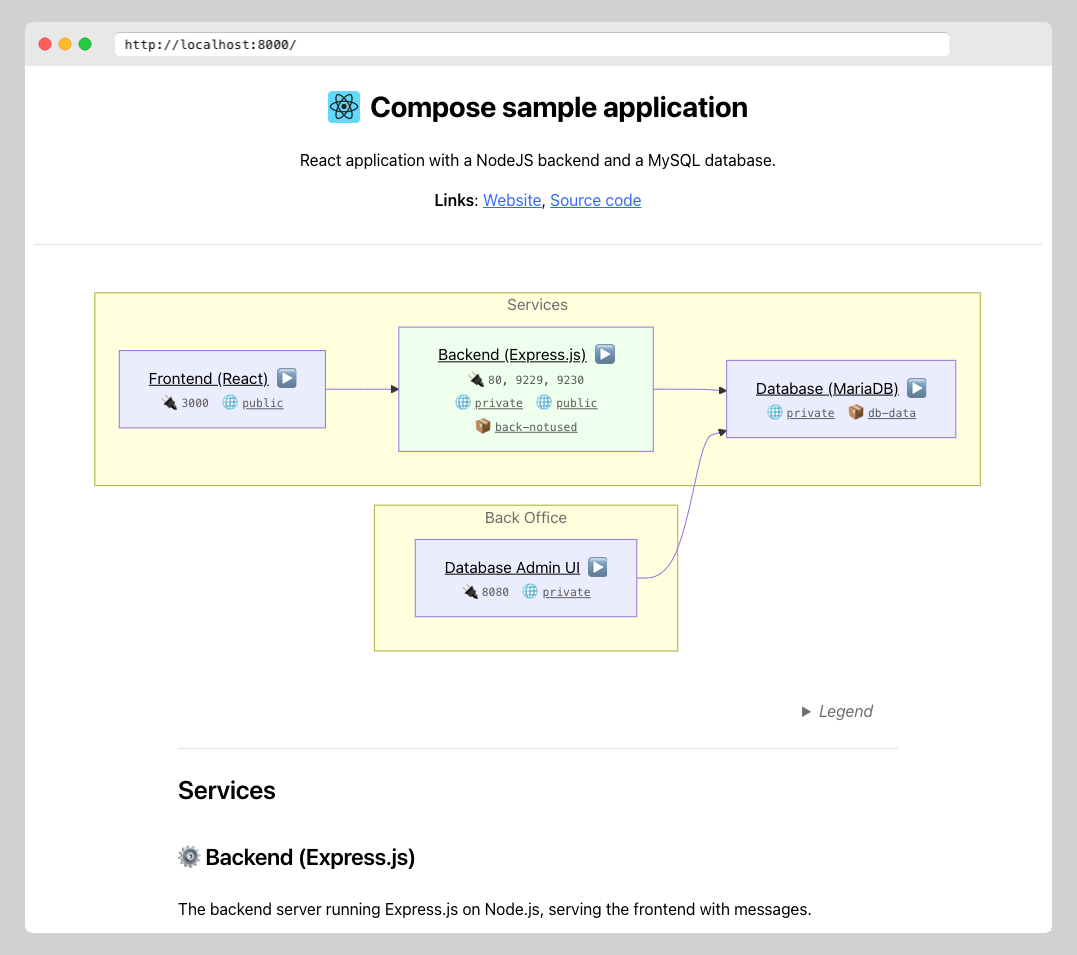
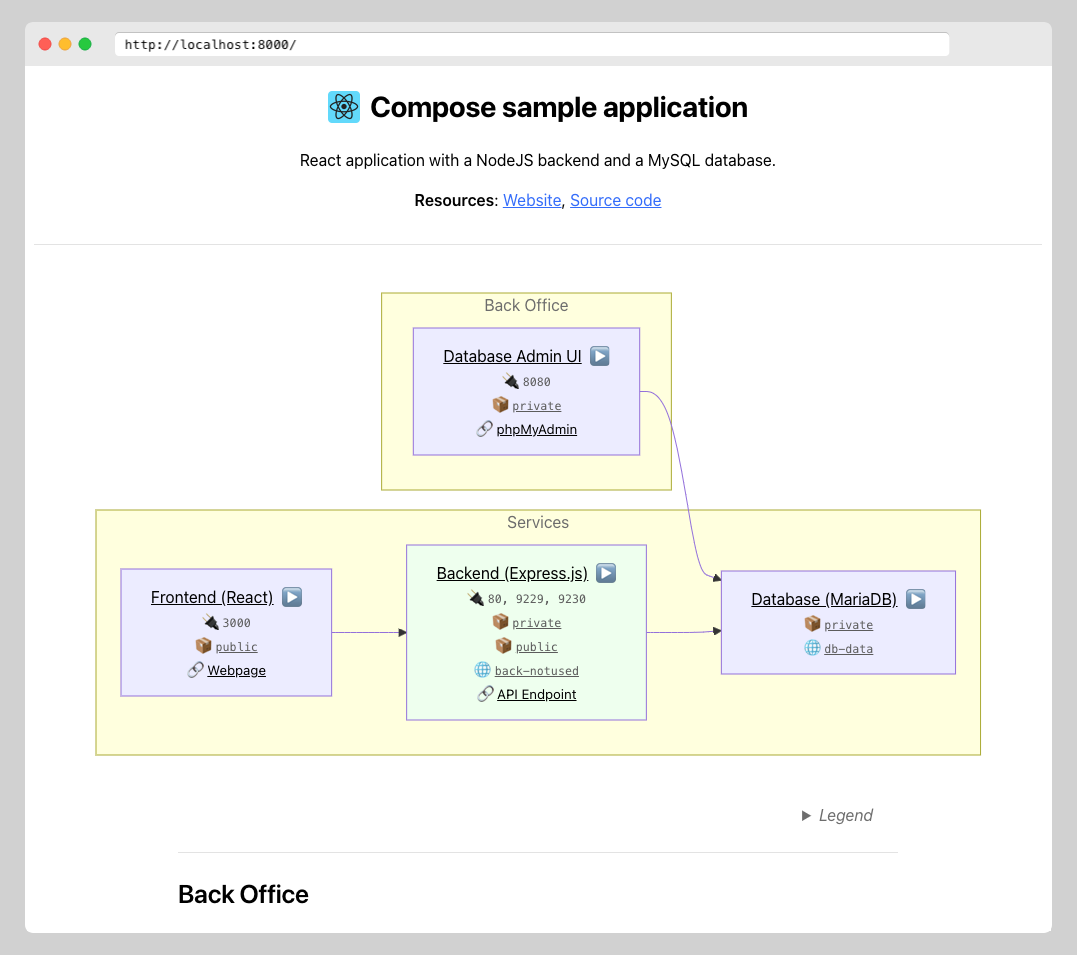
Update example.

diff --git a/examples/react-express-mysql/laebel-output.html b/examples/react-express-mysql/laebel-output.html
@@ -17,7 +17,7 @@
         <p>React application with a NodeJS backend and a MySQL database.</p>
         
             <p>
-                <strong>Links</strong>:
+                <strong>Resources</strong>:
                 <a href="https://docs.docker.com/compose/support-and-feedback/samples-for-compose/">Website</a>,
                 <a href="https://github.com/docker/awesome-compose/tree/master/react-express-mysql">Source code</a>
             </p>
@@ -41,7 +41,7 @@
         
             <section id="graph" hx-trigger="sse:reload" hx-get="/graph.mmd" hx-swap="none" hx-target=".mermaid">
                 
-<pre class="mermaid" data-processed="true"><svg aria-roledescription="flowchart-v2" role="graphics-document document" viewBox="0 0 923.4000244140625 381" style="max-width: 923.4000244140625px;" class="flowchart" xlink="http://www.w3.org/1999/xlink" xmlns="http://www.w3.org/2000/svg" width="100%" id="mermaid-1730933843128"><style>#mermaid-1730933843128{font-family:system-ui,sans-serif;font-size:16px;fill:#333;}#mermaid-1730933843128 .error-icon{fill:#552222;}#mermaid-1730933843128 .error-text{fill:#552222;stroke:#552222;}#mermaid-1730933843128 .edge-thickness-normal{stroke-width:1px;}#mermaid-1730933843128 .edge-thickness-thick{stroke-width:3.5px;}#mermaid-1730933843128 .edge-pattern-solid{stroke-dasharray:0;}#mermaid-1730933843128 .edge-thickness-invisible{stroke-width:0;fill:none;}#mermaid-1730933843128 .edge-pattern-dashed{stroke-dasharray:3;}#mermaid-1730933843128 .edge-pattern-dotted{stroke-dasharray:2;}#mermaid-1730933843128 .marker{fill:#333333;stroke:#333333;}#mermaid-1730933843128 .marker.cross{stroke:#333333;}#mermaid-1730933843128 svg{font-family:system-ui,sans-serif;font-size:16px;}#mermaid-1730933843128 p{margin:0;}#mermaid-1730933843128 .label{font-family:system-ui,sans-serif;color:#333;}#mermaid-1730933843128 .cluster-label text{fill:#333;}#mermaid-1730933843128 .cluster-label span{color:#333;}#mermaid-1730933843128 .cluster-label span p{background-color:transparent;}#mermaid-1730933843128 .label text,#mermaid-1730933843128 span{fill:#333;color:#333;}#mermaid-1730933843128 .node rect,#mermaid-1730933843128 .node circle,#mermaid-1730933843128 .node ellipse,#mermaid-1730933843128 .node polygon,#mermaid-1730933843128 .node path{fill:#ECECFF;stroke:#9370DB;stroke-width:1px;}#mermaid-1730933843128 .rough-node .label text,#mermaid-1730933843128 .node .label text,#mermaid-1730933843128 .image-shape .label,#mermaid-1730933843128 .icon-shape .label{text-anchor:middle;}#mermaid-1730933843128 .node .katex path{fill:#000;stroke:#000;stroke-width:1px;}#mermaid-1730933843128 .rough-node .label,#mermaid-1730933843128 .node .label,#mermaid-1730933843128 .image-shape .label,#mermaid-1730933843128 .icon-shape .label{text-align:center;}#mermaid-1730933843128 .node.clickable{cursor:pointer;}#mermaid-1730933843128 .root .anchor path{fill:#333333!important;stroke-width:0;stroke:#333333;}#mermaid-1730933843128 .arrowheadPath{fill:#333333;}#mermaid-1730933843128 .edgePath .path{stroke:#333333;stroke-width:2.0px;}#mermaid-1730933843128 .flowchart-link{stroke:#333333;fill:none;}#mermaid-1730933843128 .edgeLabel{background-color:rgba(232,232,232, 0.8);text-align:center;}#mermaid-1730933843128 .edgeLabel p{background-color:rgba(232,232,232, 0.8);}#mermaid-1730933843128 .edgeLabel rect{opacity:0.5;background-color:rgba(232,232,232, 0.8);fill:rgba(232,232,232, 0.8);}#mermaid-1730933843128 .labelBkg{background-color:rgba(232, 232, 232, 0.5);}#mermaid-1730933843128 .cluster rect{fill:#ffffde;stroke:#aaaa33;stroke-width:1px;}#mermaid-1730933843128 .cluster text{fill:#333;}#mermaid-1730933843128 .cluster span{color:#333;}#mermaid-1730933843128 div.mermaidTooltip{position:absolute;text-align:center;max-width:200px;padding:2px;font-family:system-ui,sans-serif;font-size:12px;background:hsl(80, 100%, 96.2745098039%);border:1px solid #aaaa33;border-radius:2px;pointer-events:none;z-index:100;}#mermaid-1730933843128 .flowchartTitleText{text-anchor:middle;font-size:18px;fill:#333;}#mermaid-1730933843128 rect.text{fill:none;stroke-width:0;}#mermaid-1730933843128 .icon-shape,#mermaid-1730933843128 .image-shape{background-color:rgba(232,232,232, 0.8);text-align:center;}#mermaid-1730933843128 .icon-shape p,#mermaid-1730933843128 .image-shape p{background-color:rgba(232,232,232, 0.8);padding:2px;}#mermaid-1730933843128 .icon-shape rect,#mermaid-1730933843128 .image-shape rect{opacity:0.5;background-color:rgba(232,232,232, 0.8);fill:rgba(232,232,232, 0.8);}#mermaid-1730933843128 :root{--mermaid-font-family:system-ui,sans-serif;}</style><g><marker orient="auto" markerHeight="8" markerWidth="8" markerUnits="userSpaceOnUse" refY="5" refX="5" viewBox="0 0 10 10" class="marker flowchart-v2" id="mermaid-1730933843128_flowchart-v2-pointEnd"><path style="stroke-width: 1px; stroke-dasharray: 1px, 0px;" class="arrowMarkerPath" d="M 0 0 L 10 5 L 0 10 z"></path></marker><marker orient="auto" markerHeight="8" markerWidth="8" markerUnits="userSpaceOnUse" refY="5" refX="4.5" viewBox="0 0 10 10" class="marker flowchart-v2" id="mermaid-1730933843128_flowchart-v2-pointStart"><path style="stroke-width: 1px; stroke-dasharray: 1px, 0px;" class="arrowMarkerPath" d="M 0 5 L 10 10 L 10 0 z"></path></marker><marker orient="auto" markerHeight="11" markerWidth="11" markerUnits="userSpaceOnUse" refY="5" refX="11" viewBox="0 0 10 10" class="marker flowchart-v2" id="mermaid-1730933843128_flowchart-v2-circleEnd"><circle style="stroke-width: 1px; stroke-dasharray: 1px, 0px;" class="arrowMarkerPath" r="5" cy="5" cx="5"></circle></marker><marker orient="auto" markerHeight="11" markerWidth="11" markerUnits="userSpaceOnUse" refY="5" refX="-1" viewBox="0 0 10 10" class="marker flowchart-v2" id="mermaid-1730933843128_flowchart-v2-circleStart"><circle style="stroke-width: 1px; stroke-dasharray: 1px, 0px;" class="arrowMarkerPath" r="5" cy="5" cx="5"></circle></marker><marker orient="auto" markerHeight="11" markerWidth="11" markerUnits="userSpaceOnUse" refY="5.2" refX="12" viewBox="0 0 11 11" class="marker cross flowchart-v2" id="mermaid-1730933843128_flowchart-v2-crossEnd"><path style="stroke-width: 2px; stroke-dasharray: 1px, 0px;" class="arrowMarkerPath" d="M 1,1 l 9,9 M 10,1 l -9,9"></path></marker><marker orient="auto" markerHeight="11" markerWidth="11" markerUnits="userSpaceOnUse" refY="5.2" refX="-1" viewBox="0 0 11 11" class="marker cross flowchart-v2" id="mermaid-1730933843128_flowchart-v2-crossStart"><path style="stroke-width: 2px; stroke-dasharray: 1px, 0px;" class="arrowMarkerPath" d="M 1,1 l 9,9 M 10,1 l -9,9"></path></marker><g class="root"><g class="clusters"><g data-look="classic" id="subGraph1" class="cluster"><rect height="148.5" width="310" y="224.5" x="294.90000915527344" style=""></rect><g transform="translate(407.7666702270508, 224.5)" class="cluster-label"><foreignObject height="24" width="84.26667785644531"><div xmlns="http://www.w3.org/1999/xhtml" style="display: table-cell; white-space: nowrap; line-height: 1.5; max-width: 200px; text-align: center;"><span class="nodeLabel"><p>Back Office</p></span></div></foreignObject></g></g><g data-look="classic" id="subGraph0" class="cluster"><rect height="196.5" width="907.4000091552734" y="8" x="8" style=""></rect><g transform="translate(430.6750030517578, 8)" class="cluster-label"><foreignObject height="24" width="62.05000305175781"><div xmlns="http://www.w3.org/1999/xhtml" style="display: table-cell; white-space: nowrap; line-height: 1.5; max-width: 200px; text-align: center;"><span class="nodeLabel"><p>Services</p></span></div></foreignObject></g></g></g><g class="edgePaths"><path marker-end="url(#mermaid-1730933843128_flowchart-v2-pointEnd)" style="" class="edge-thickness-normal edge-pattern-solid edge-thickness-normal edge-pattern-solid flowchart-link" id="L_backend_db_0" d="M579.9,106.25L584.067,106.25C588.233,106.25,596.567,106.25,604.9,106.25C613.233,106.25,621.567,106.25,627.817,106.396C634.067,106.542,638.233,106.834,641.735,107.079C645.237,107.324,648.073,107.523,649.491,107.622L650.91,107.722"></path><path marker-end="url(#mermaid-1730933843128_flowchart-v2-pointEnd)" style="" class="edge-thickness-normal edge-pattern-solid edge-thickness-normal edge-pattern-solid flowchart-link" id="L_frontend_backend_1" d="M244.9,106.25L249.067,106.25C253.233,106.25,261.567,106.25,269.9,106.25C278.233,106.25,286.567,106.25,292.817,106.25C299.067,106.25,303.233,106.25,306.733,106.25C310.233,106.25,313.067,106.25,314.483,106.25L315.9,106.25"></path><path marker-end="url(#mermaid-1730933843128_flowchart-v2-pointEnd)" style="" class="edge-thickness-normal edge-pattern-solid edge-thickness-normal edge-pattern-solid flowchart-link" id="L_phpMyAdmin_db_2" d="M563.892,298.75L570.726,298.75C577.561,298.75,591.231,298.75,602.232,274.854C613.233,250.958,621.567,203.167,627.817,178.7C634.067,154.233,638.233,153.091,641.757,152.125C645.281,151.159,648.162,150.37,649.602,149.975L651.042,149.58"></path></g><g class="edgeLabels"><g class="edgeLabel"><g transform="translate(0, 0)" class="label"><foreignObject height="0" width="0"><div class="labelBkg" xmlns="http://www.w3.org/1999/xhtml" style="display: table-cell; white-space: nowrap; line-height: 1.5; max-width: 200px; text-align: center;"><span class="edgeLabel"></span></div></foreignObject></g></g><g class="edgeLabel"><g transform="translate(0, 0)" class="label"><foreignObject height="0" width="0"><div class="labelBkg" xmlns="http://www.w3.org/1999/xhtml" style="display: table-cell; white-space: nowrap; line-height: 1.5; max-width: 200px; text-align: center;"><span class="edgeLabel"></span></div></foreignObject></g></g><g class="edgeLabel"><g transform="translate(0, 0)" class="label"><foreignObject height="0" width="0"><div class="labelBkg" xmlns="http://www.w3.org/1999/xhtml" style="display: table-cell; white-space: nowrap; line-height: 1.5; max-width: 200px; text-align: center;"><span class="edgeLabel"></span></div></foreignObject></g></g></g><g class="nodes"><g transform="translate(449.90000915527344, 106.25)" id="flowchart-backend-0" class="node default"><rect height="126.5" width="260" y="-63.25" x="-130" style="" class="basic label-container"></rect><g transform="translate(-100, -48.25)" style="" class="label"><rect></rect><foreignObject height="96.5" width="200"><div xmlns="http://www.w3.org/1999/xhtml" style="display: table; white-space: break-spaces; line-height: 1.5; max-width: 200px; text-align: center; width: 200px;"><span class="nodeLabel"><p><a href="#backend-service">Backend (Express.js)</a><span title="The service is running and is healthy. 😀" class="icon healthy">▶</span></p><div class="details"><small class="ports"><code>80, 9229, 9230</code></small><small class="network"><a href="#private-network"><code>private</code></a></small><small class="network"><a href="#public-network"><code>public</code></a></small><small class="volume"><a href="#back-notused-volume"><code>back-notused</code></a></small></div><p></p></span></div></foreignObject></g></g><g transform="translate(772.6500091552734, 116.25)" id="flowchart-db-1" class="node default"><rect height="78.5" width="235.5" y="-39.25" x="-117.75" style="" class="basic label-container"></rect><g transform="translate(-87.75, -24.25)" style="" class="label"><rect></rect><foreignObject height="48.5" width="175.5"><div xmlns="http://www.w3.org/1999/xhtml" style="display: table-cell; white-space: nowrap; line-height: 1.5; max-width: 200px; text-align: center;"><span class="nodeLabel"><p><a href="#db-service">Database (MariaDB)</a><span title="The service is running, but has no health information." class="icon">▶</span></p><div class="details"><small class="network"><a href="#private-network"><code>private</code></a></small><small class="volume"><a href="#db-data-volume"><code>db-data</code></a></small></div><p></p></span></div></foreignObject></g></g><g transform="translate(138.95000457763672, 106.25)" id="flowchart-frontend-2" class="node default"><rect height="78.5" width="211.90000915527344" y="-39.25" x="-105.95000457763672" style="" class="basic label-container"></rect><g transform="translate(-75.95000457763672, -24.25)" style="" class="label"><rect></rect><foreignObject height="48.5" width="151.90000915527344"><div xmlns="http://www.w3.org/1999/xhtml" style="display: table-cell; white-space: nowrap; line-height: 1.5; max-width: 200px; text-align: center;"><span class="nodeLabel"><p><a href="#frontend-service">Frontend (React)</a><span title="The service is running, but has no health information." class="icon">▶</span></p><div class="details"><small class="ports"><code>3000</code></small><small class="network"><a href="#public-network"><code>public</code></a></small></div><p></p></span></div></foreignObject></g></g><g transform="translate(449.90000915527344, 298.75)" id="flowchart-phpMyAdmin-3" class="node default"><rect height="78.5" width="227.98333740234375" y="-39.25" x="-113.99166870117188" style="" class="basic label-container"></rect><g transform="translate(-83.99166870117188, -24.25)" style="" class="label"><rect></rect><foreignObject height="48.5" width="167.98333740234375"><div xmlns="http://www.w3.org/1999/xhtml" style="display: table-cell; white-space: nowrap; line-height: 1.5; max-width: 200px; text-align: center;"><span class="nodeLabel"><p><a href="#phpMyAdmin-service">Database Admin UI</a><span title="The service is running, but has no health information." class="icon">▶</span></p><div class="details"><small class="ports"><code>8080</code></small><small class="network"><a href="#private-network"><code>private</code></a></small></div><p></p></span></div></foreignObject></g></g></g></g></g></svg></pre>
+<pre class="mermaid" data-processed="true"><svg aria-roledescription="flowchart-v2" role="graphics-document document" viewBox="0 0 904.3833618164062 477" style="max-width: 904.3833618164062px;" class="flowchart" xlink="http://www.w3.org/1999/xlink" xmlns="http://www.w3.org/2000/svg" width="100%" id="mermaid-1740960273626"><style>#mermaid-1740960273626{font-family:system-ui,sans-serif;font-size:16px;fill:#333;}#mermaid-1740960273626 .error-icon{fill:#552222;}#mermaid-1740960273626 .error-text{fill:#552222;stroke:#552222;}#mermaid-1740960273626 .edge-thickness-normal{stroke-width:1px;}#mermaid-1740960273626 .edge-thickness-thick{stroke-width:3.5px;}#mermaid-1740960273626 .edge-pattern-solid{stroke-dasharray:0;}#mermaid-1740960273626 .edge-thickness-invisible{stroke-width:0;fill:none;}#mermaid-1740960273626 .edge-pattern-dashed{stroke-dasharray:3;}#mermaid-1740960273626 .edge-pattern-dotted{stroke-dasharray:2;}#mermaid-1740960273626 .marker{fill:#333333;stroke:#333333;}#mermaid-1740960273626 .marker.cross{stroke:#333333;}#mermaid-1740960273626 svg{font-family:system-ui,sans-serif;font-size:16px;}#mermaid-1740960273626 p{margin:0;}#mermaid-1740960273626 .label{font-family:system-ui,sans-serif;color:#333;}#mermaid-1740960273626 .cluster-label text{fill:#333;}#mermaid-1740960273626 .cluster-label span{color:#333;}#mermaid-1740960273626 .cluster-label span p{background-color:transparent;}#mermaid-1740960273626 .label text,#mermaid-1740960273626 span{fill:#333;color:#333;}#mermaid-1740960273626 .node rect,#mermaid-1740960273626 .node circle,#mermaid-1740960273626 .node ellipse,#mermaid-1740960273626 .node polygon,#mermaid-1740960273626 .node path{fill:#ECECFF;stroke:#9370DB;stroke-width:1px;}#mermaid-1740960273626 .rough-node .label text,#mermaid-1740960273626 .node .label text,#mermaid-1740960273626 .image-shape .label,#mermaid-1740960273626 .icon-shape .label{text-anchor:middle;}#mermaid-1740960273626 .node .katex path{fill:#000;stroke:#000;stroke-width:1px;}#mermaid-1740960273626 .rough-node .label,#mermaid-1740960273626 .node .label,#mermaid-1740960273626 .image-shape .label,#mermaid-1740960273626 .icon-shape .label{text-align:center;}#mermaid-1740960273626 .node.clickable{cursor:pointer;}#mermaid-1740960273626 .root .anchor path{fill:#333333!important;stroke-width:0;stroke:#333333;}#mermaid-1740960273626 .arrowheadPath{fill:#333333;}#mermaid-1740960273626 .edgePath .path{stroke:#333333;stroke-width:2.0px;}#mermaid-1740960273626 .flowchart-link{stroke:#333333;fill:none;}#mermaid-1740960273626 .edgeLabel{background-color:rgba(232,232,232, 0.8);text-align:center;}#mermaid-1740960273626 .edgeLabel p{background-color:rgba(232,232,232, 0.8);}#mermaid-1740960273626 .edgeLabel rect{opacity:0.5;background-color:rgba(232,232,232, 0.8);fill:rgba(232,232,232, 0.8);}#mermaid-1740960273626 .labelBkg{background-color:rgba(232, 232, 232, 0.5);}#mermaid-1740960273626 .cluster rect{fill:#ffffde;stroke:#aaaa33;stroke-width:1px;}#mermaid-1740960273626 .cluster text{fill:#333;}#mermaid-1740960273626 .cluster span{color:#333;}#mermaid-1740960273626 div.mermaidTooltip{position:absolute;text-align:center;max-width:200px;padding:2px;font-family:system-ui,sans-serif;font-size:12px;background:hsl(80, 100%, 96.2745098039%);border:1px solid #aaaa33;border-radius:2px;pointer-events:none;z-index:100;}#mermaid-1740960273626 .flowchartTitleText{text-anchor:middle;font-size:18px;fill:#333;}#mermaid-1740960273626 rect.text{fill:none;stroke-width:0;}#mermaid-1740960273626 .icon-shape,#mermaid-1740960273626 .image-shape{background-color:rgba(232,232,232, 0.8);text-align:center;}#mermaid-1740960273626 .icon-shape p,#mermaid-1740960273626 .image-shape p{background-color:rgba(232,232,232, 0.8);padding:2px;}#mermaid-1740960273626 .icon-shape rect,#mermaid-1740960273626 .image-shape rect{opacity:0.5;background-color:rgba(232,232,232, 0.8);fill:rgba(232,232,232, 0.8);}#mermaid-1740960273626 :root{--mermaid-font-family:system-ui,sans-serif;}</style><g><marker orient="auto" markerHeight="8" markerWidth="8" markerUnits="userSpaceOnUse" refY="5" refX="5" viewBox="0 0 10 10" class="marker flowchart-v2" id="mermaid-1740960273626_flowchart-v2-pointEnd"><path style="stroke-width: 1px; stroke-dasharray: 1px, 0px;" class="arrowMarkerPath" d="M 0 0 L 10 5 L 0 10 z"></path></marker><marker orient="auto" markerHeight="8" markerWidth="8" markerUnits="userSpaceOnUse" refY="5" refX="4.5" viewBox="0 0 10 10" class="marker flowchart-v2" id="mermaid-1740960273626_flowchart-v2-pointStart"><path style="stroke-width: 1px; stroke-dasharray: 1px, 0px;" class="arrowMarkerPath" d="M 0 5 L 10 10 L 10 0 z"></path></marker><marker orient="auto" markerHeight="11" markerWidth="11" markerUnits="userSpaceOnUse" refY="5" refX="11" viewBox="0 0 10 10" class="marker flowchart-v2" id="mermaid-1740960273626_flowchart-v2-circleEnd"><circle style="stroke-width: 1px; stroke-dasharray: 1px, 0px;" class="arrowMarkerPath" r="5" cy="5" cx="5"></circle></marker><marker orient="auto" markerHeight="11" markerWidth="11" markerUnits="userSpaceOnUse" refY="5" refX="-1" viewBox="0 0 10 10" class="marker flowchart-v2" id="mermaid-1740960273626_flowchart-v2-circleStart"><circle style="stroke-width: 1px; stroke-dasharray: 1px, 0px;" class="arrowMarkerPath" r="5" cy="5" cx="5"></circle></marker><marker orient="auto" markerHeight="11" markerWidth="11" markerUnits="userSpaceOnUse" refY="5.2" refX="12" viewBox="0 0 11 11" class="marker cross flowchart-v2" id="mermaid-1740960273626_flowchart-v2-crossEnd"><path style="stroke-width: 2px; stroke-dasharray: 1px, 0px;" class="arrowMarkerPath" d="M 1,1 l 9,9 M 10,1 l -9,9"></path></marker><marker orient="auto" markerHeight="11" markerWidth="11" markerUnits="userSpaceOnUse" refY="5.2" refX="-1" viewBox="0 0 11 11" class="marker cross flowchart-v2" id="mermaid-1740960273626_flowchart-v2-crossStart"><path style="stroke-width: 2px; stroke-dasharray: 1px, 0px;" class="arrowMarkerPath" d="M 1,1 l 9,9 M 10,1 l -9,9"></path></marker><g class="root"><g class="clusters"><g data-look="classic" id="Services" class="cluster"><rect height="244.5" width="888.3833465576172" y="224.5" x="8" style=""></rect><g transform="translate(421.1666717529297, 224.5)" class="cluster-label"><foreignObject height="24" width="62.05000305175781"><div xmlns="http://www.w3.org/1999/xhtml" style="display: table-cell; white-space: nowrap; line-height: 1.5; max-width: 200px; text-align: center;"><span class="nodeLabel"><p>Services</p></span></div></foreignObject></g></g><g data-look="classic" id="subGraph0" class="cluster"><rect height="196.5" width="290.98333740234375" y="8" x="294.90000915527344" style=""></rect><g transform="translate(398.2583465576172, 8)" class="cluster-label"><foreignObject height="24" width="84.26666259765625"><div xmlns="http://www.w3.org/1999/xhtml" style="display: table-cell; white-space: nowrap; line-height: 1.5; max-width: 200px; text-align: center;"><span class="nodeLabel"><p>Back Office</p></span></div></foreignObject></g></g></g><g class="edgePaths"><path marker-end="url(#mermaid-1740960273626_flowchart-v2-pointEnd)" style="" class="edge-thickness-normal edge-pattern-solid edge-thickness-normal edge-pattern-solid flowchart-link" id="L_phpMyAdmin_db_0" d="M554.383,106.25L559.633,106.25C564.883,106.25,575.383,106.25,584.8,136.146C594.217,166.042,602.55,225.833,608.8,256.475C615.05,287.117,619.217,288.61,622.756,289.877C626.295,291.144,629.206,292.187,630.662,292.709L632.118,293.23"></path><path marker-end="url(#mermaid-1740960273626_flowchart-v2-pointEnd)" style="" class="edge-thickness-normal edge-pattern-solid edge-thickness-normal edge-pattern-solid flowchart-link" id="L_backend_db_1" d="M560.883,346.75L565.05,346.75C569.217,346.75,577.55,346.75,585.883,346.75C594.217,346.75,602.55,346.75,608.8,346.604C615.05,346.458,619.217,346.166,622.718,345.921C626.22,345.676,629.057,345.477,630.475,345.378L631.893,345.278"></path><path marker-end="url(#mermaid-1740960273626_flowchart-v2-pointEnd)" style="" class="edge-thickness-normal edge-pattern-solid edge-thickness-normal edge-pattern-solid flowchart-link" id="L_frontend_backend_2" d="M244.9,346.75L249.067,346.75C253.233,346.75,261.567,346.75,269.9,346.75C278.233,346.75,286.567,346.75,292.817,346.75C299.067,346.75,303.233,346.75,306.733,346.75C310.233,346.75,313.067,346.75,314.483,346.75L315.9,346.75"></path></g><g class="edgeLabels"><g class="edgeLabel"><g transform="translate(0, 0)" class="label"><foreignObject height="0" width="0"><div class="labelBkg" xmlns="http://www.w3.org/1999/xhtml" style="display: table-cell; white-space: nowrap; line-height: 1.5; max-width: 200px; text-align: center;"><span class="edgeLabel"></span></div></foreignObject></g></g><g class="edgeLabel"><g transform="translate(0, 0)" class="label"><foreignObject height="0" width="0"><div class="labelBkg" xmlns="http://www.w3.org/1999/xhtml" style="display: table-cell; white-space: nowrap; line-height: 1.5; max-width: 200px; text-align: center;"><span class="edgeLabel"></span></div></foreignObject></g></g><g class="edgeLabel"><g transform="translate(0, 0)" class="label"><foreignObject height="0" width="0"><div class="labelBkg" xmlns="http://www.w3.org/1999/xhtml" style="display: table-cell; white-space: nowrap; line-height: 1.5; max-width: 200px; text-align: center;"><span class="edgeLabel"></span></div></foreignObject></g></g></g><g class="nodes"><g transform="translate(440.3916778564453, 106.25)" id="flowchart-phpMyAdmin-0" class="node default"><rect height="126.5" width="227.98333740234375" y="-63.25" x="-113.99166870117188" style="" class="basic label-container"></rect><g transform="translate(-83.99166870117188, -48.25)" style="" class="label"><rect></rect><foreignObject height="96.5" width="167.98333740234375"><div xmlns="http://www.w3.org/1999/xhtml" style="display: table-cell; white-space: nowrap; line-height: 1.5; max-width: 200px; text-align: center;"><span class="nodeLabel"><p><a href="#phpMyAdmin-service">Database Admin UI</a><span title="The service is running, but has no health information." class="icon">▶</span></p><div class="details"><small title="Ports exposed by the service" class="ports">🔌 <code>8080</code></small><br><small title="Networks used by the service" class="network">📦 <a href="#private-network"><code>private</code></a></small><br><small title="Links to other services" class="link">🔗 <a title="" href="http://localhost:8080/">phpMyAdmin</a></small><br></div><p></p></span></div></foreignObject></g></g><g transform="translate(440.3916778564453, 346.75)" id="flowchart-backend-1" class="node default"><rect height="174.5" width="240.98333740234375" y="-87.25" x="-120.49166870117188" style="" class="basic label-container"></rect><g transform="translate(-90.49166870117188, -72.25)" style="" class="label"><rect></rect><foreignObject height="144.5" width="180.98333740234375"><div xmlns="http://www.w3.org/1999/xhtml" style="display: table-cell; white-space: nowrap; line-height: 1.5; max-width: 200px; text-align: center;"><span class="nodeLabel"><p><a href="#backend-service">Backend (Express.js)</a><span title="The service is running and is healthy. 😀" class="icon healthy">▶</span></p><div class="details"><small title="Ports exposed by the service" class="ports">🔌 <code>80, 9229, 9230</code></small><br><small title="Networks used by the service" class="network">📦 <a href="#private-network"><code>private</code></a></small><br><small title="Networks used by the service" class="network">📦 <a href="#public-network"><code>public</code></a></small><br><small title="Volumes used by the service" class="volume">🌐 <a href="#back-notused-volume"><code>back-notused</code></a></small><br><small title="Links to other services" class="link">🔗 <a title="" href="http://localhost/">API Endpoint</a></small><br></div><p></p></span></div></foreignObject></g></g><g transform="translate(753.6333465576172, 336.75)" id="flowchart-db-2" class="node default"><rect height="102.5" width="235.5" y="-51.25" x="-117.75" style="" class="basic label-container"></rect><g transform="translate(-87.75, -36.25)" style="" class="label"><rect></rect><foreignObject height="72.5" width="175.5"><div xmlns="http://www.w3.org/1999/xhtml" style="display: table-cell; white-space: nowrap; line-height: 1.5; max-width: 200px; text-align: center;"><span class="nodeLabel"><p><a href="#db-service">Database (MariaDB)</a><span title="The service is running, but has no health information." class="icon">▶</span></p><div class="details"><small title="Networks used by the service" class="network">📦 <a href="#private-network"><code>private</code></a></small><br><small title="Volumes used by the service" class="volume">🌐 <a href="#db-data-volume"><code>db-data</code></a></small><br></div><p></p></span></div></foreignObject></g></g><g transform="translate(138.95000457763672, 346.75)" id="flowchart-frontend-3" class="node default"><rect height="126.5" width="211.90000915527344" y="-63.25" x="-105.95000457763672" style="" class="basic label-container"></rect><g transform="translate(-75.95000457763672, -48.25)" style="" class="label"><rect></rect><foreignObject height="96.5" width="151.90000915527344"><div xmlns="http://www.w3.org/1999/xhtml" style="display: table-cell; white-space: nowrap; line-height: 1.5; max-width: 200px; text-align: center;"><span class="nodeLabel"><p><a href="#frontend-service">Frontend (React)</a><span title="The service is running, but has no health information." class="icon">▶</span></p><div class="details"><small title="Ports exposed by the service" class="ports">🔌 <code>3000</code></small><br><small title="Networks used by the service" class="network">📦 <a href="#public-network"><code>public</code></a></small><br><small title="Links to other services" class="link">🔗 <a title="" href="http://localhost:3000/">Webpage</a></small><br></div><p></p></span></div></foreignObject></g></g></g></g></g></svg></pre>
 
 
 
@@ -87,7 +87,88 @@
     
         
             <section class="group">
-                <h2> Services</h2>
+                <h2>Back Office</h2>
+                
+    <section id="phpMyAdmin-service" class="service" hx-trigger="sse:status:phpMyAdmin" hx-get="/service?name=phpMyAdmin">
+        <h3 class="title">Database Admin UI</h3>
+        <p class="description">phpMyAdmin is a web-based database management tool for MariaDB.</p>
+        <ul>
+            
+            <li class="name"><strong>Name</strong>: <code>phpMyAdmin</code> 
+<span class="clipboard" onclick="copyPreviousText(this)">📋</span>
+
+            </li><li class="image"><strong>Image</strong>: <code>phpmyadmin/phpmyadmin</code> 
+<span class="clipboard" onclick="copyPreviousText(this)">📋</span>
+</li>
+            <li class="status"><strong>Status</strong>: 
+<span class="status">
+<span class="icon" title="The service is running, but has no health information.">▶</span>
+<span class="details">
+
+<span class="running">1 running</span>
+</span>
+</span>
+</li>
+            
+                <li class="resources">
+                    <strong>Resources</strong>: 
+                    <a href="https://github.com/phpmyadmin/docker#readme">Website</a>, 
+                    <a href="https://github.com/phpmyadmin/docker#readme">Documentation</a>, 
+                    <a href="https://github.com/phpmyadmin/docker.git">Source code</a>
+                </li>
+            
+            
+                <li class="links">
+                    <strong>Links</strong>: <ul>
+                        
+                        <li><a href="http://localhost:8080/">phpMyAdmin</a></li>
+                    </ul>
+                </li>
+            
+            
+                <li class="ports">
+                    <strong>Ports</strong>: <ul><li><code>8080</code>: Internal HTTP</li></ul>
+                </li>
+            
+            
+                <li class="networks">
+                    <strong>Networks</strong>: <ul><li><a href="#private-network"><code>private</code></a>: Private Network</li></ul>
+                </li>
+            
+            
+        </ul>
+        <details class="containers">
+            
+            <summary>Expand for details on 1 container.</summary>
+            <table>
+                <thead>
+                <tr>
+                    <th>Container ID</th>
+                    <th>Name</th>
+                    <th>Created</th>
+                    <th>State</th>
+                </tr>
+                </thead>
+                
+                    <tbody><tr class="container" id="5dc1b19869cc">
+                        <td><code>5dc1b19869cc</code> 
+<span class="clipboard" onclick="copyPreviousText(this)">📋</span>
+</td>
+                        <td><code>react-express-mysql-phpMyAdmin-1</code> 
+<span class="clipboard" onclick="copyPreviousText(this)">📋</span>
+</td>
+                        <td>2025-03-02 23:46:19</td>
+                        <td>running</td>
+                    </tr>
+                
+            </tbody></table>
+        </details>
+    </section>
+
+            </section>
+        
+            <section class="group">
+                <h2>Services</h2>
                 
     <section id="backend-service" class="service" hx-trigger="sse:status:backend" hx-get="/service?name=backend">
         <h3 class="title">Backend (Express.js)</h3>
@@ -110,9 +191,12 @@
 </span>
 </li>
             
+            
                 <li class="links">
-                    <strong>Links</strong>: 
-                    <a href="http://localhost/">API Endpoint</a>
+                    <strong>Links</strong>: <ul>
+                        
+                        <li><a href="http://localhost/">API Endpoint</a></li>
+                    </ul>
                 </li>
             
             
@@ -127,7 +211,7 @@
             
             
                 <li class="volumes">
-                    <strong>Volumes</strong>: <ul><li><a href="#back-notused-volume"><code>back-notused</code></a>: Backend Storage (Currently Not Used - updated)</li></ul>
+                    <strong>Volumes</strong>: <ul><li><a href="#back-notused-volume"><code>back-notused</code></a>: Backend Storage (Currently Not Used)</li></ul>
                 </li>
             
         </ul>
@@ -140,18 +224,18 @@
                     <th>Container ID</th>
                     <th>Name</th>
                     <th>Created</th>
-                    <th>Status</th>
+                    <th>State</th>
                 </tr>
                 </thead>
                 
-                    <tbody><tr class="container" id="76e9abd38a8d">
-                        <td><code>76e9abd38a8d</code> 
+                    <tbody><tr class="container" id="9cbaaed59a57">
+                        <td><code>9cbaaed59a57</code> 
 <span class="clipboard" onclick="copyPreviousText(this)">📋</span>
 </td>
                         <td><code>react-express-mysql-backend-1</code> 
 <span class="clipboard" onclick="copyPreviousText(this)">📋</span>
 </td>
-                        <td>2024-11-06 13:55:06</td>
+                        <td>2025-03-02 23:46:19</td>
                         <td>running (healthy)</td>
                     </tr>
                 
@@ -182,6 +266,7 @@
             
             
             
+            
                 <li class="networks">
                     <strong>Networks</strong>: <ul><li><a href="#private-network"><code>private</code></a>: Private Network</li></ul>
                 </li>
@@ -201,18 +286,18 @@
                     <th>Container ID</th>
                     <th>Name</th>
                     <th>Created</th>
-                    <th>Status</th>
+                    <th>State</th>
                 </tr>
                 </thead>
                 
-                    <tbody><tr class="container" id="63b6a9de0856">
-                        <td><code>63b6a9de0856</code> 
+                    <tbody><tr class="container" id="32146587232b">
+                        <td><code>32146587232b</code> 
 <span class="clipboard" onclick="copyPreviousText(this)">📋</span>
 </td>
                         <td><code>react-express-mysql-db-1</code> 
 <span class="clipboard" onclick="copyPreviousText(this)">📋</span>
 </td>
-                        <td>2024-11-06 21:53:05</td>
+                        <td>2025-03-02 23:46:19</td>
                         <td>running</td>
                     </tr>
                 
@@ -241,9 +326,12 @@
 </span>
 </li>
             
+            
                 <li class="links">
-                    <strong>Links</strong>: 
-                    <a href="http://localhost:3000/">Webpage</a>
+                    <strong>Links</strong>: <ul>
+                        
+                        <li><a href="http://localhost:3000/">Webpage</a></li>
+                    </ul>
                 </li>
             
             
@@ -267,92 +355,18 @@
                     <th>Container ID</th>
                     <th>Name</th>
                     <th>Created</th>
-                    <th>Status</th>
+                    <th>State</th>
                 </tr>
                 </thead>
                 
-                    <tbody><tr class="container" id="ffa4db8a7107">
-                        <td><code>ffa4db8a7107</code> 
+                    <tbody><tr class="container" id="a1e4b8412b29">
+                        <td><code>a1e4b8412b29</code> 
 <span class="clipboard" onclick="copyPreviousText(this)">📋</span>
 </td>
                         <td><code>react-express-mysql-frontend-1</code> 
 <span class="clipboard" onclick="copyPreviousText(this)">📋</span>
 </td>
-                        <td>2024-11-06 21:53:05</td>
-                        <td>running</td>
-                    </tr>
-                
-            </tbody></table>
-        </details>
-    </section>
-
-            </section>
-        
-            <section class="group">
-                <h2>Back Office</h2>
-                
-    <section id="phpMyAdmin-service" class="service" hx-trigger="sse:status:phpMyAdmin" hx-get="/service?name=phpMyAdmin">
-        <h3 class="title">Database Admin UI</h3>
-        <p class="description">phpMyAdmin is a web-based database management tool for MariaDB.</p>
-        <ul>
-            
-            <li class="name"><strong>Name</strong>: <code>phpMyAdmin</code> 
-<span class="clipboard" onclick="copyPreviousText(this)">📋</span>
-
-            </li><li class="image"><strong>Image</strong>: <code>phpmyadmin/phpmyadmin</code> 
-<span class="clipboard" onclick="copyPreviousText(this)">📋</span>
-</li>
-            <li class="status"><strong>Status</strong>: 
-<span class="status">
-<span class="icon" title="The service is running, but has no health information.">▶</span>
-<span class="details">
-
-<span class="running">1 running</span>
-</span>
-</span>
-</li>
-            
-                <li class="links">
-                    <strong>Links</strong>: 
-                    <a href="https://github.com/phpmyadmin/docker#readme">Website</a>, 
-                    <a href="https://github.com/phpmyadmin/docker#readme">Documentation</a>, 
-                    <a href="https://github.com/phpmyadmin/docker.git">Source code</a>, 
-                    <a href="http://localhost:8080/">phpMyAdmin</a>
-                </li>
-            
-            
-                <li class="ports">
-                    <strong>Ports</strong>: <ul><li><code>8080</code>: Internal HTTP</li></ul>
-                </li>
-            
-            
-                <li class="networks">
-                    <strong>Networks</strong>: <ul><li><a href="#private-network"><code>private</code></a>: Private Network</li></ul>
-                </li>
-            
-            
-        </ul>
-        <details class="containers">
-            
-            <summary>Expand for details on 1 container.</summary>
-            <table>
-                <thead>
-                <tr>
-                    <th>Container ID</th>
-                    <th>Name</th>
-                    <th>Created</th>
-                    <th>Status</th>
-                </tr>
-                </thead>
-                
-                    <tbody><tr class="container" id="f02a498fbf91">
-                        <td><code>f02a498fbf91</code> 
-<span class="clipboard" onclick="copyPreviousText(this)">📋</span>
-</td>
-                        <td><code>react-express-mysql-phpMyAdmin-1</code> 
-<span class="clipboard" onclick="copyPreviousText(this)">📋</span>
-</td>
-                        <td>2024-11-06 21:53:05</td>
+                        <td>2025-03-02 23:46:19</td>
                         <td>running</td>
                     </tr>
                 
@@ -427,7 +441,7 @@
                 <h2>Volumes</h2>
                 
     <section id="back-notused-volume" class="volume">
-        <h3 class="title">Backend Storage (Currently Not Used - updated)</h3>
+        <h3 class="title">Backend Storage (Currently Not Used)</h3>
         <p class="description">Volume intended for storing backend data.</p>
         <ul>
             

diff --git a/examples/react-express-mysql/laebel-output_files/styles.css b/examples/react-express-mysql/laebel-output_files/styles.css
@@ -328,21 +328,9 @@ GRAPH
     color: var(--link-text);
 }
 
-#graph .ports::before {
-    content: "🔌 ";
-}
-
-#graph .volume::before, .volume .title::before {
-    content: "📦 ";
-}
-
-#graph .network::before, .network .title::before {
-    content: "🌐 ";
-}
-
-#graph .ports, #graph .volume, #graph .network {
+#graph .ports, #graph .volume, #graph .network, #graph .link {
+    cursor: help;
     display: inline-block;
-    margin: 0 0.5em;
 }
 
 #graph code {
